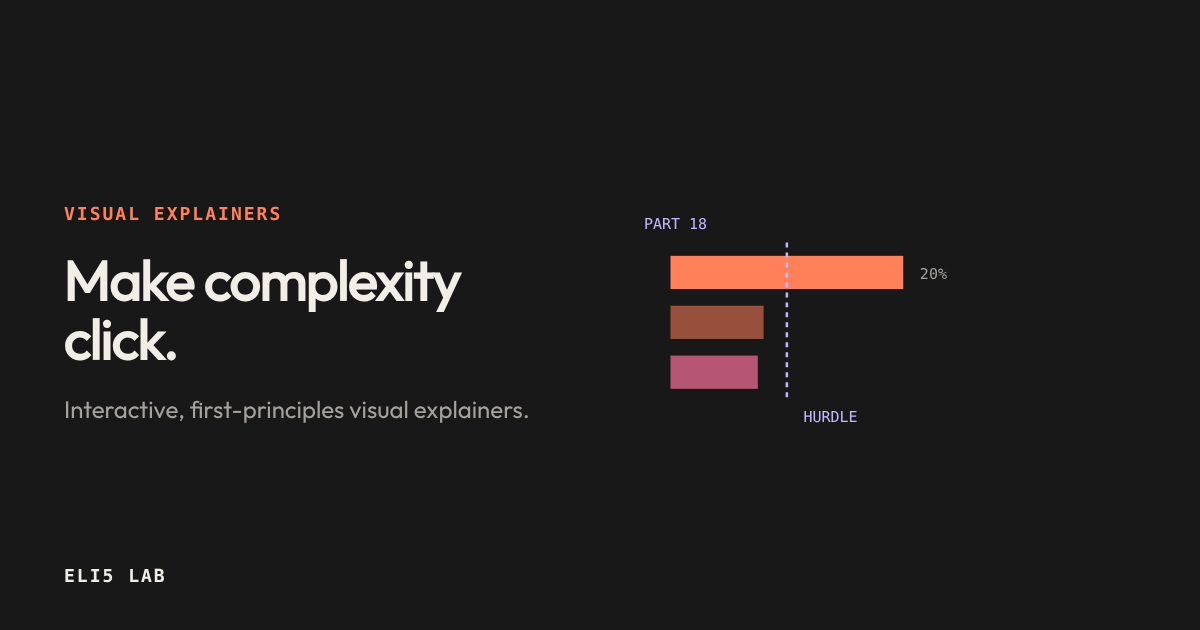
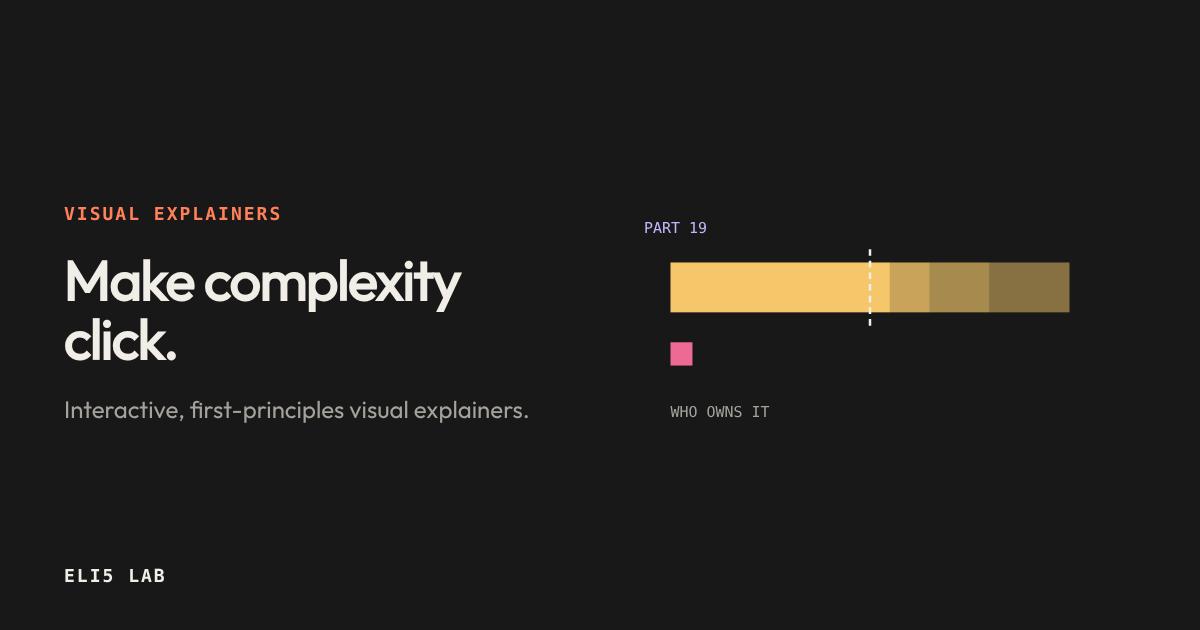
content: publish Part 19, "Governance and who owns the company"
Claude-Session: https://claude.ai/code/session_01UXW7E4aVSwbFHa7ZdPFLc9

Changed region(s): [[0.555, 0.3921, 0.8942, 0.6635], [0.6783, 0.6333, 0.7092, 0.6937], [0.5242, 0.3317, 0.5858, 0.3619]]

diff --git a/published.js b/published.js
@@ -1,5 +1,29 @@
 window.PUBLISHED = [
   {
+    "id": "governance-and-ownership-eli5",
+    "title": "Governance and who owns the company",
+    "category": "Monetary Architecture",
+    "minutes": 24,
+    "summary": "Part 19: who owns the company, who has pledged shares, and who is watching",
+    "bullets": [
+      "Shareholding pattern: promoters, FPIs, DIIs, public",
+      "Pledges, margin calls and related-party approvals",
+      "Board, audit committee, auditor's opinion and TCPL's filings"
+    ],
+    "kind": "flow",
+    "color": "#ff8059",
+    "nodes": [
+      "OWNERS",
+      "PLEDGE",
+      "WATCHERS"
+    ],
+    "file": "explainers/governance-and-ownership-eli5.html",
+    "date": "2026-11-18",
+    "subcategory": "Fundamental analysis, from scratch",
+    "card": "<svg viewBox=\"0 0 320 155\" role=\"img\" aria-label=\"One ownership bar with a large gold promoter block reaching past a dashed half-way line, then smaller tinted gold blocks for other holders, and a short rose strip below for the pledged shares\"><rect x=\"40\" y=\"46\" width=\"132\" height=\"30\" fill=\"#f5c76a\"/><rect x=\"172\" y=\"46\" width=\"24\" height=\"30\" fill=\"#f5c76a\" fill-opacity=\"0.8\"/><rect x=\"196\" y=\"46\" width=\"36\" height=\"30\" fill=\"#f5c76a\" fill-opacity=\"0.65\"/><rect x=\"232\" y=\"46\" width=\"48\" height=\"30\" fill=\"#f5c76a\" fill-opacity=\"0.5\"/><path d=\"M160 38 L160 84\" stroke=\"#f1eee8\" stroke-width=\"1.5\" stroke-dasharray=\"4 3\" fill=\"none\"/><rect x=\"40\" y=\"94\" width=\"13.2\" height=\"14\" fill=\"#ec6a94\"/><g font-family=\"monospace\" font-size=\"9\"><text x=\"24\" y=\"28\" fill=\"#c3b8ff\">PART 19</text><text x=\"40\" y=\"139\" fill=\"#a5a29c\">WHO OWNS IT</text></g></svg>",
+    "part": 19
+  },
+  {
     "id": "management-and-capital-allocation-eli5",
     "title": "Management, capital allocation and concalls",
     "category": "Monetary Architecture",

diff --git a/explainers/governance-and-ownership-eli5.html b/explainers/governance-and-ownership-eli5.html
@@ -62,6 +62,20 @@
     .lab-chart svg+svg{margin-top:18px}
     .eq b{color:var(--fg)}
   </style>
+<!-- link-preview:start -->
+<meta name="description" content="Part 19: who owns the company, who has pledged shares, and who is watching">
+<link rel="canonical" href="https://eli5-seven-mu.vercel.app/explainers/governance-and-ownership-eli5">
+<meta property="og:type" content="article">
+<meta property="og:site_name" content="ELI5 Lab">
+<meta property="og:title" content="Governance and who owns the company">
+<meta property="og:description" content="Part 19: who owns the company, who has pledged shares, and who is watching">
+<meta property="og:url" content="https://eli5-seven-mu.vercel.app/explainers/governance-and-ownership-eli5">
+<meta property="og:image" content="https://eli5-seven-mu.vercel.app/assets/og/governance-and-ownership-eli5.png?v=29f19221">
+<meta property="og:image:width" content="1200"><meta property="og:image:height" content="630">
+<meta property="og:image:alt" content="Governance and who owns the company">
+<meta property="article:published_time" content="2026-11-18">
+<meta name="twitter:card" content="summary_large_image">
+<!-- link-preview:end -->
 </head>
 <body data-series-id="governance-and-ownership-eli5">
   <div class="eli5-progress-track"><div class="eli5-progress-fill" id="readingProgress"></div></div>
